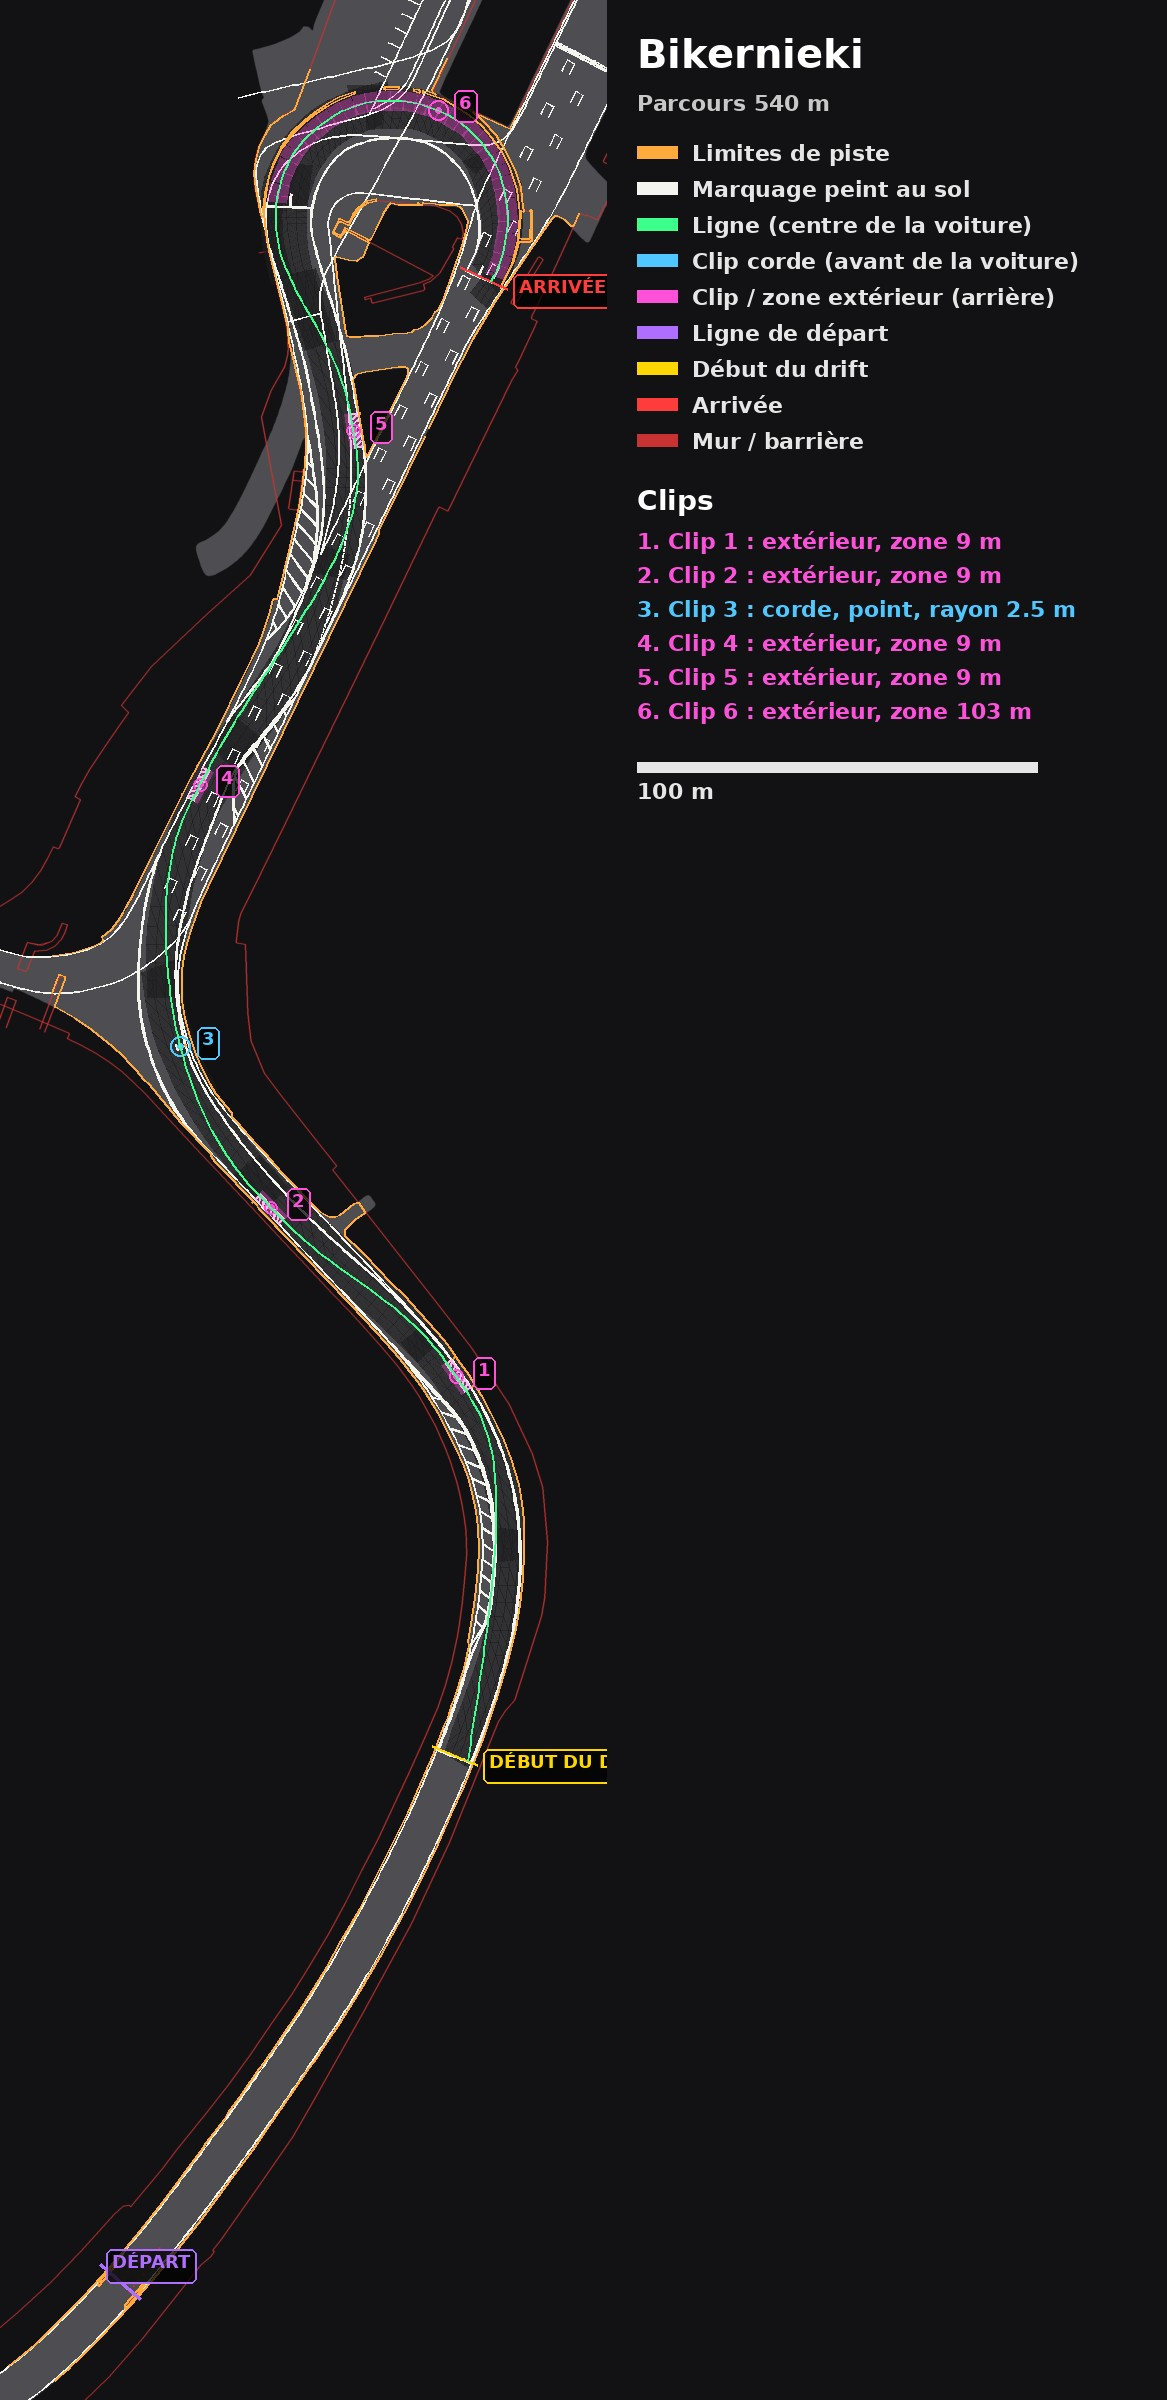
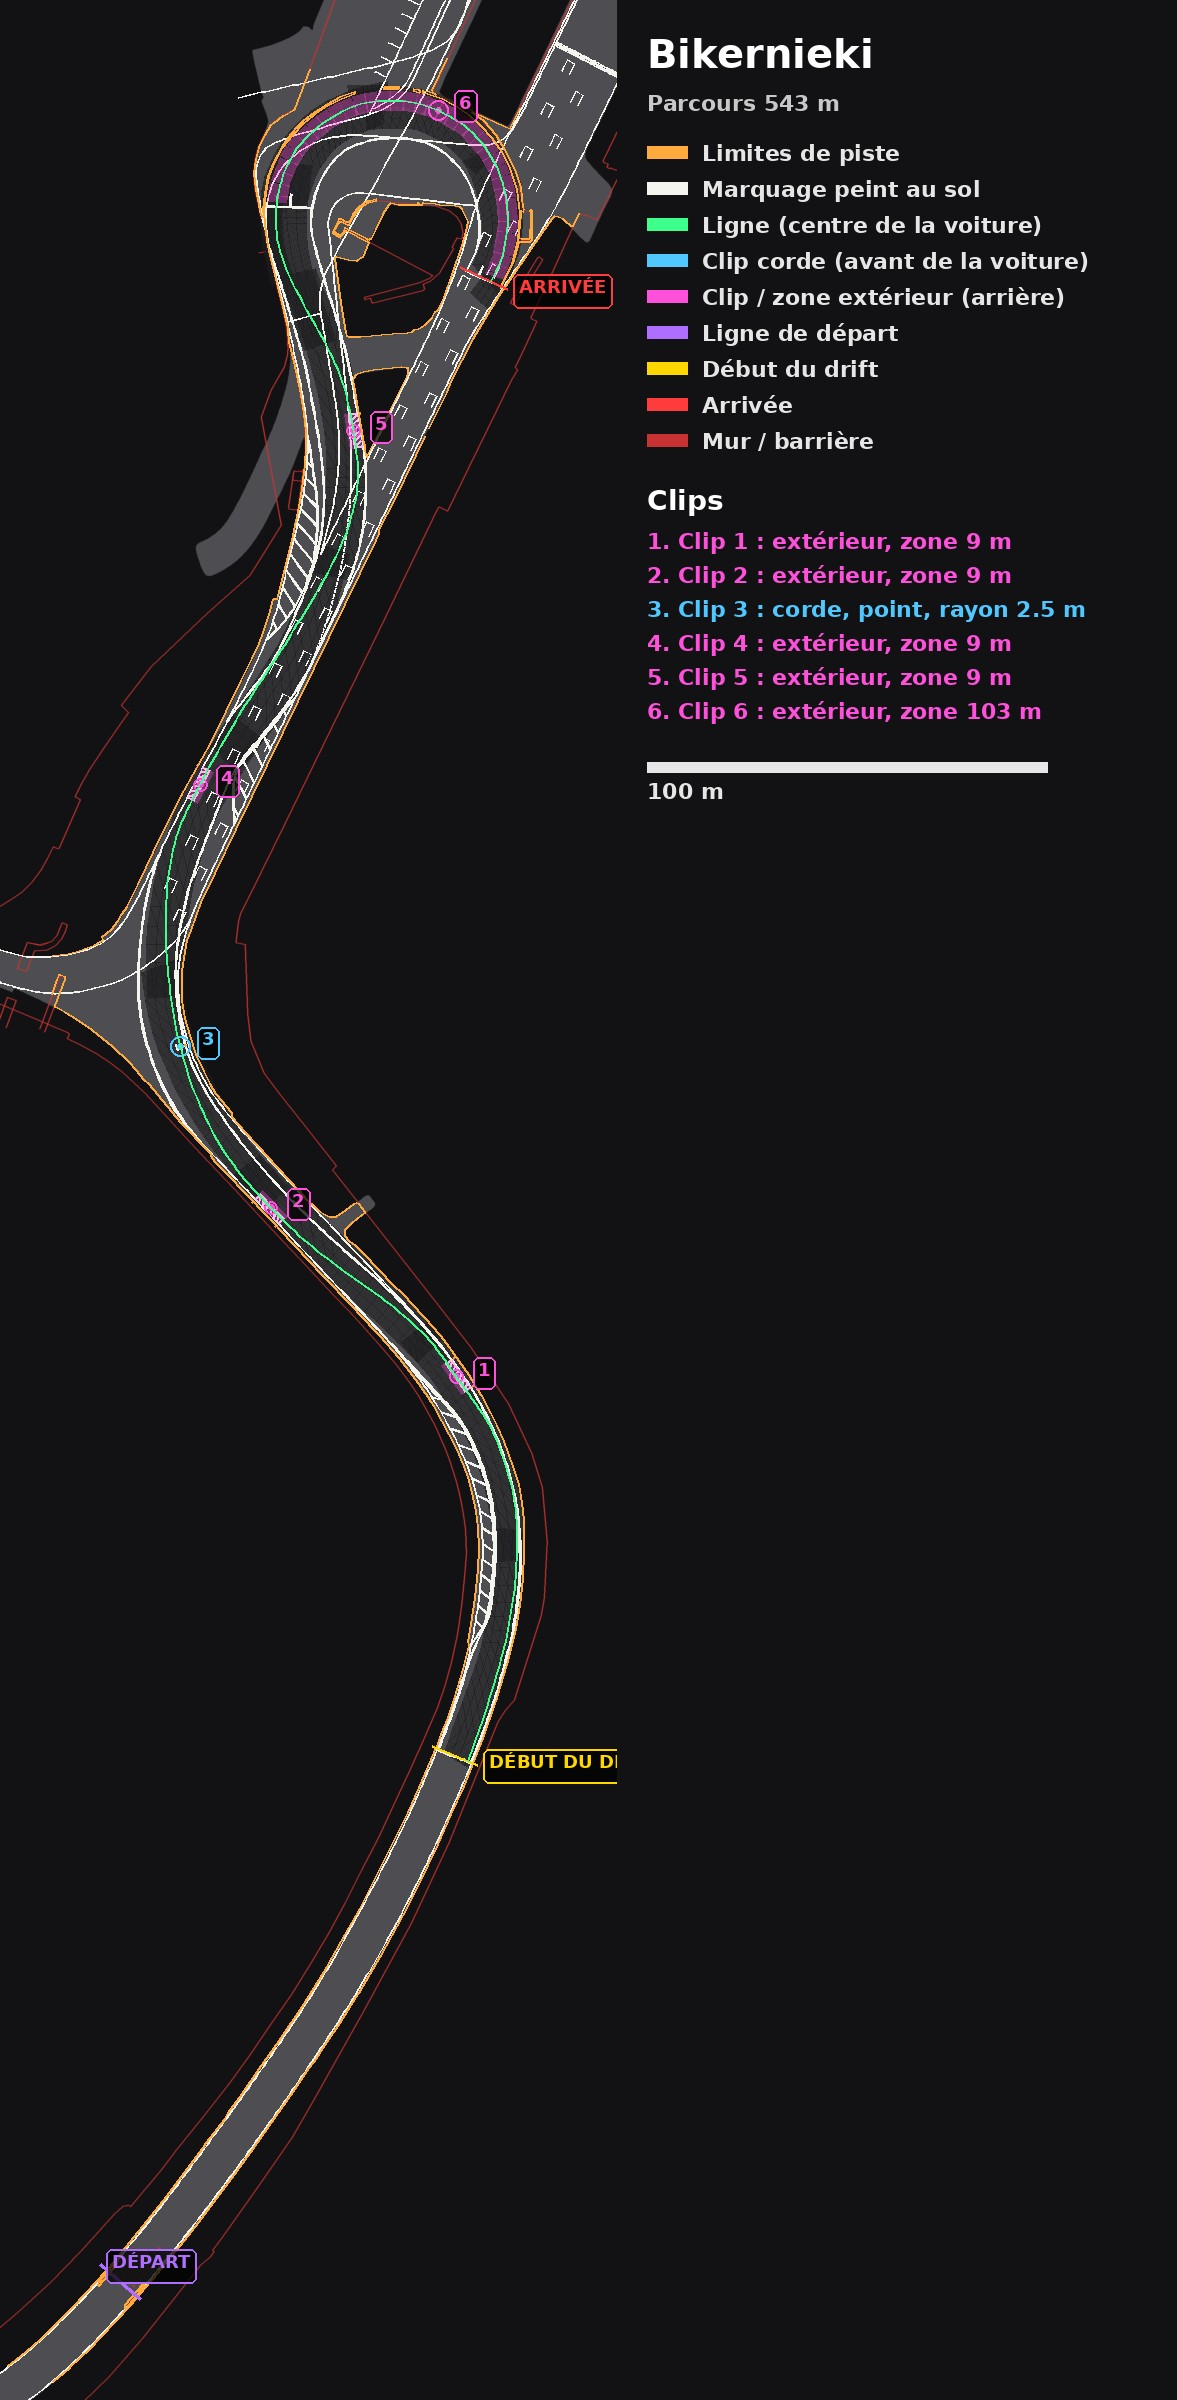
Bikernieki : la ligne suit l'extérieur du virage du début du drift au clip 1 (v1.29.5)
Claude-Session: https://claude.ai/code/session_01KtGjQ3shu6GnLhEc8xEytz

Changed region(s): [[0.0617, 0.0, 0.5244, 0.9688], [0.5553, 0.0, 0.8946, 0.3438]]

diff --git a/tools/track-analysis/analysis.py b/tools/track-analysis/analysis.py
@@ -36,7 +36,7 @@ LAYOUTS = {
     'eng': dict(track='englishtown_gambler_esda', layout='', models=None, surf='data/surfaces.ini', ai='ai-for replays/fast_lane.ai', json='englishtown_gambler_esda.json'),
     'kart': dict(track='kart_volan_championship', layout='', models='models.ini', surf='data/surfaces.ini', ai='ai/fast_lane.ai', json='kart_volan_championship.json'),
     'pge': dict(track='poland_pge_narodowy_v3', layout='', models='models.ini', surf='data/surfaces.ini', ai='ai0/fast_lane.ai', json='poland_pge_narodowy_v3.json'),
-    'bik': dict(start_at=0.8, track='vdc_bikernieki_2022', layout='drift_vdc', models='models_drift_vdc.ini', surf='drift_vdc/data/surfaces.ini', ai='drift_vdc/ai/fast_lane.ai', json='vdc_bikernieki_2022.drift_vdc.json'),
+    'bik': dict(start_at=0.8, hug=dict(to='Clip 1', off=1.6), track='vdc_bikernieki_2022', layout='drift_vdc', models='models_drift_vdc.ini', surf='drift_vdc/data/surfaces.ini', ai='drift_vdc/ai/fast_lane.ai', json='vdc_bikernieki_2022.drift_vdc.json'),
 }
 
 # ground paint (name or material) and clip posts / boards of each layout, found by surveying the meshes under every clip
@@ -572,7 +572,10 @@ def analyze(key, angle=DRIFT_ANGLE, w2=15.0, w3=60.0, wc=8.0, verbose=True, cour
         line = Lfull[max(0, i0 - 1):min(n, i1 + 3)]
     if CLIP_SPLINE:
         # the line from the clips only (see clip_line)
-        line, _, _ = clip_line(g, valid, wall, c, start_at=cfg.get('start_at'), finish_at=cfg.get('finish_at'))
+        guides = []
+        if cfg.get('hug'):  # follow the outside of the bend from the start to a clip, `off` m from the edge
+            guides = hug_points(g, valid, wall, c, **cfg['hug'])
+        line, _, _ = clip_line(g, valid, wall, c, start_at=cfg.get('start_at'), finish_at=cfg.get('finish_at'), guides=guides)
         Lfull = line
         a = s0
     rad, ang = radius(Lfull)
@@ -694,10 +697,10 @@ def report(res):
 # clip, centre line of a zone) in order, and the finish gate. The track only matters where the
 # curve would leave it: there it is pushed back inside (distance to the edge >= margin).
 
-def control_points(c, step_zone=3.0):
+def control_points(c, step_zone=3.0, guides=()):
     """[(x, z)] the line must go through, in order."""
     mid = lambda g: np.mean(np.array(g, float), 0)
-    pts = [mid(c['start'])]; zone_pt = [False]
+    pts = [mid(c['start'])] + [np.array(gp, float) for gp in guides]; zone_pt = [False] + [False] * len(guides)
     for cl in c['clips']:
         if cl.get('path') and len(cl['path']) > 1:
             P = np.array(cl['path'], float)
@@ -715,6 +718,31 @@ def control_points(c, step_zone=3.0):
     # (only the points of a zone: a small clip next to a gate stays, the line goes through it)
     inner = [p for p, z in zip(pts[1:-1], zone_pt[1:]) if not z or (gate_dist(p, c['start']) > 3 and gate_dist(p, c['finish']) > 3)]
     return np.array([pts[0]] + inner + [pts[-1]])
+
+
+def hug_points(g, valid, wall, c, to='Clip 1', off=1.6, every=6.0, skip=8.0):
+    """Points `off` m inside the OUTER edge of the bend between the start gate and the clip `to`."""
+    a = np.mean(np.array(c['start'], float), 0)
+    cl = [k for k in c['clips'] if k['name'] == to][0]
+    b = np.array(cl['path'][0], float) if cl.get('path') else np.array([cl['x'], cl['z']], float)
+    ref = np.array(c['refLine'], float)
+    i0 = int(np.hypot(*(ref - a).T).argmin()); i1 = int(np.hypot(*(ref - b).T).argmin())
+    R = C.resample(ref[i0:i1 + 1], 1.0)
+    D, _, _ = track_distance(g, valid, wall, R)
+    F, N = C.frames(R)
+    # the outside of the bend: away from the turn of the stretch
+    k = C.smooth(C.curvature(R, 5), 4)
+    out = []
+    s_all = np.arange(len(R))
+    for j in s_all[int(skip):-int(skip)]:
+        if j % int(every): continue
+        side = -np.sign(k[j]) or 1.0  # curvature > 0 turns towards +N: outside is -N
+        p = R[j]
+        for t in np.arange(0, 25, 0.1):
+            q = p + N[j] * side * t
+            if sample_field(g, D, np.array([q[0]]), np.array([q[1]]))[0] <= off:
+                out.append(q); break
+    return out
 
 
 def track_distance(g, valid, wall, line):
@@ -741,10 +769,10 @@ def sample_field(g, F, x, z):
     return F[v, u]
 
 
-def clip_line(g, valid, wall, c, margin=0.6, w2=1.0, w3=6.0, step=1.0, iters=25, start_at=None, finish_at=None):
+def clip_line(g, valid, wall, c, margin=0.6, w2=1.0, w3=6.0, step=1.0, iters=25, start_at=None, finish_at=None, guides=()):
     import osqp
     from scipy import sparse
-    Q = control_points(c)
+    Q = control_points(c, guides=guides)
     # stations: ~1 m apart along the polyline through the control points; each control point pinned
     seg = np.hypot(*np.diff(Q, axis=0).T)
     # lead-in before the start gate and run-out after the finish (free, so the line crosses the gates

diff --git a/docs/parcours/README.md b/docs/parcours/README.md
@@ -1,6 +1,6 @@
 # Parcours officiels : images de contrôle
 
-Une image par tracé, telle que le launcher l'utilise (v1.29.4) : limites de piste (orange), marquage
+Une image par tracé, telle que le launcher l'utilise (v1.29.5) : limites de piste (orange), marquage
 peint au sol (blanc), ligne de référence (vert), clips numérotés comme dans le launcher (bleu = corde,
 rose = extérieur), départ (violet), début du drift (jaune), arrivée (rouge). Légende, liste des clips et
 échelle à droite. Refaites avec `tools/track-analysis/poster.py`.

diff --git a/CHANGELOG.md b/CHANGELOG.md
@@ -1,5 +1,9 @@
 # Journal des versions
 
+## 1.29.5
+
+- **Bikernieki** : du début du drift au clip 1, la ligne suit l'extérieur du virage.
+
 ## 1.29.4
 
 - **Bikernieki** : la ligne commence à l'extérieur, plus sur les zébras.
